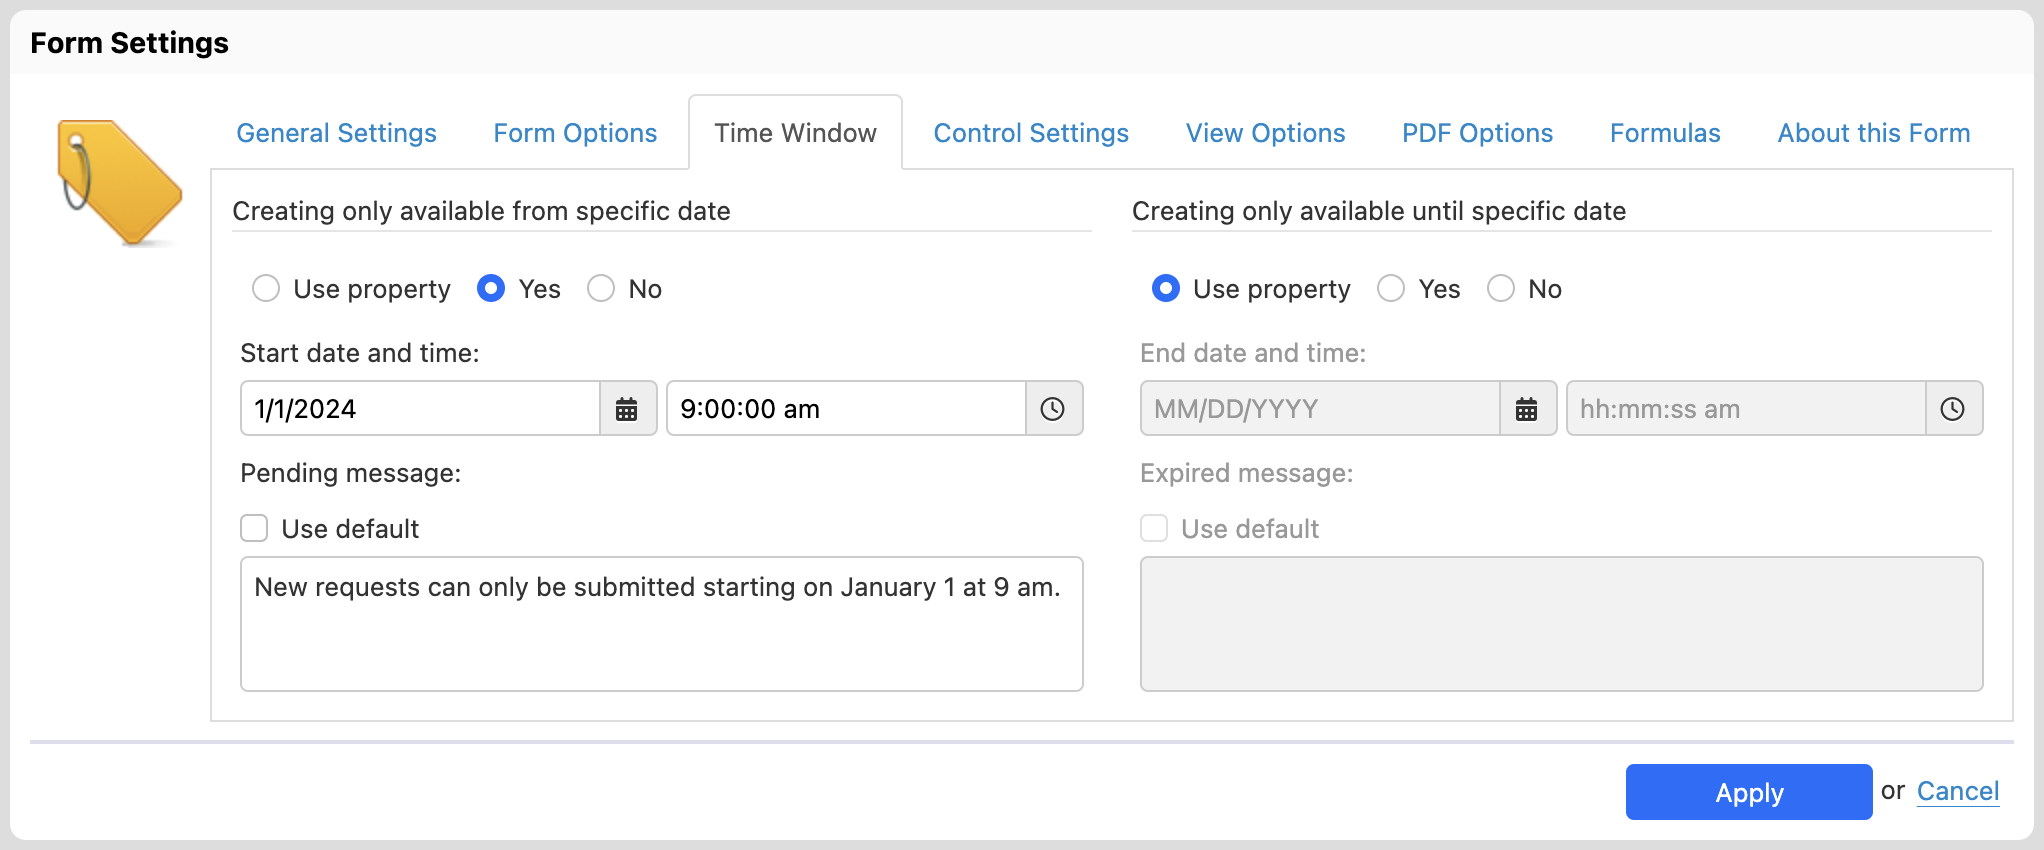
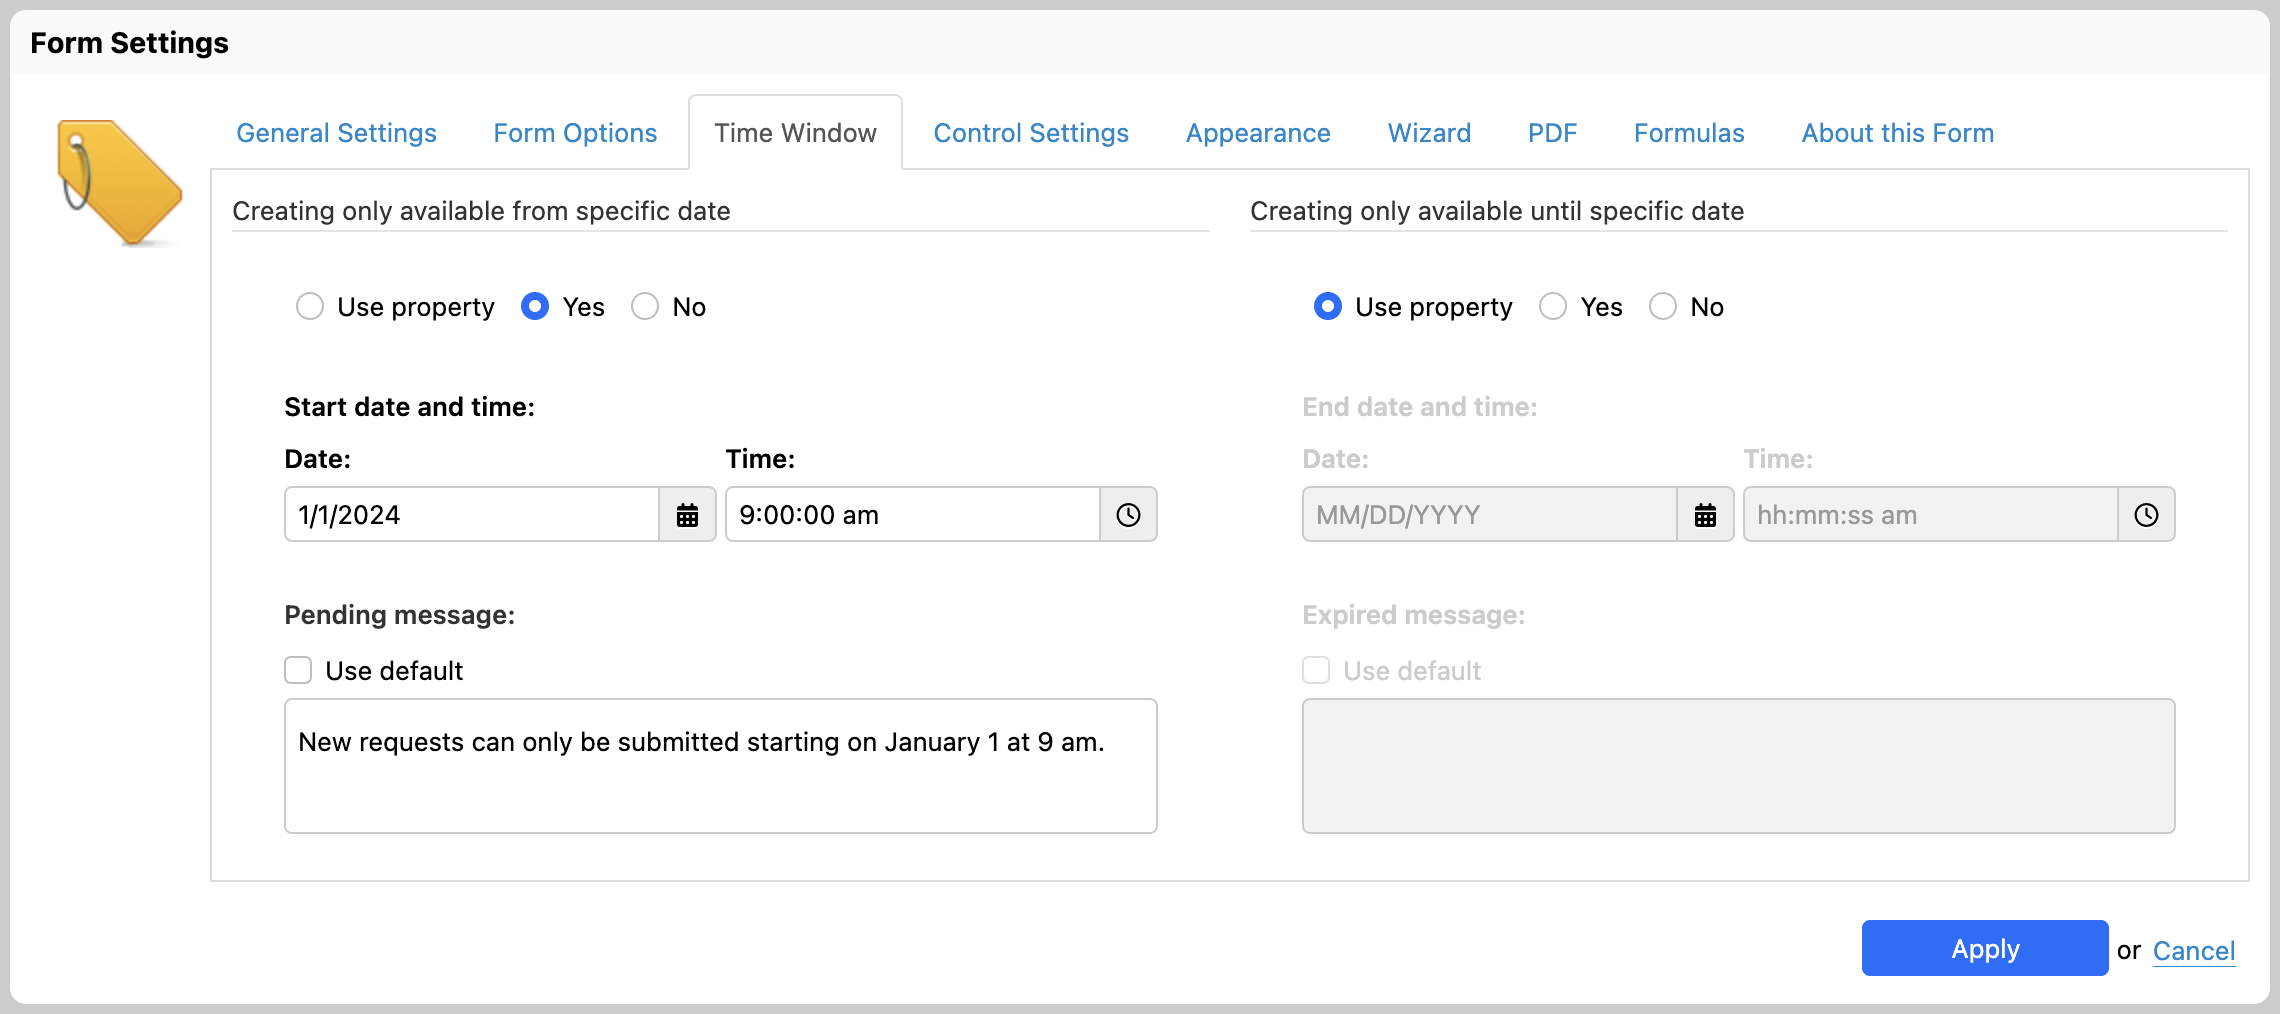
Density

diff --git a/form-builder/form-settings.md b/form-builder/form-settings.md
@@ -13,13 +13,13 @@ General settings allow you to set the following form definition metadata:
 - Form title in the current language
 - Form description in the current language
 
-![General Settings](images/form-settings-general.png)
+![General Settings](form-settings/general.png)
 
 [SINCE Orbeon Forms 2020.1]
 
 The description can optionally use rich text.
 
-![Form description with rich text](images/form-settings-general-html.png)
+![Form description with rich text](form-settings/general-html.png)
 
 ## Form Options
 
@@ -27,57 +27,46 @@ The description can optionally use rich text.
 
 Form options include options which apply to the entire form definition.
 
-![Form Options](images/form-settings-form-options.png)
+![Form Options](form-settings/form-options.png)
 
 - Singleton Form
-    - Enable or disable singleton form behavior. 
-    - See [Singleton Form](/form-runner/advanced/singleton-form.md)
-- Maximum Attachment Size per File
-    - [SINCE Orbeon Forms 2017.1]
-    - Use property: use the [`oxf.fr.detail.attachment.max-size-per-file` property](/configuration/properties/form-runner-attachments.md#maximum-attachment-size)
-    - Other: the maximum size allowed in bytes
-- Maximum Aggregate Attachment Size
-    - [SINCE Orbeon Forms 2017.1]
-    - Use property: use the [`oxf.fr.detail.attachment.max-size-aggregate-per-form` property](/configuration/properties/form-runner-attachments.md#maximum-aggregate-attachment-size-forms)
-    - Other: the maximum size allowed in bytes
-- Allowed File Types
-    - [SINCE Orbeon Forms 2017.1]
-    - Use property: use the [`oxf.fr.detail.attachment.mediatypes` property](/configuration/properties/form-runner-attachments.md#allowed-file-types)
-    - Other: a space-separated list of mediatypes or wildcard mediatypes
-- Appearance of Control Labels
-    - Use property: use the [`oxf.xforms.label.appearance` property](/xforms/controls/input.md#per-form-properties)
-    - Inline: labels show inline above the control
-- Use Placeholder for Text Fields and Text Areas
-    - Labels show inline above the control for most fields.
-    - For text, date, and time input fields, labels show as an HTML *placeholder* within the field when the field is empty.
-    - For text areas, labels show as an HTML *placeholder* within the field when the field is empty. [SINCE Orbeon Forms 2017.1]
-- Appearance of Control Hints
-    - Use property: use the `oxf.xforms.hint.appearance` property
-    - Inline: hints show inline below the control
-    - Tooltips: hints show as tooltips upon mouseover
-- Use automatic hints
-    - [\[SINCE Orbeon Forms 2023.1\]](/release-notes/orbeon-forms-2023.1.md)
-    - Use property: use the `oxf.fr.detail.hint.automatic.*.*` property
-    - Yes/No: show or don't show the automatic hints for all controls on this form
-    - For details, see [Automatic hints](control-settings.md#automatic-hints)
-- Use Placeholder for Text Fields and Text Areas
-    - Hints show inline or as tooltips upon mouseover.
-    - For text, date, and time input fields, hints show as an HTML *placeholder* within the field when the field is empty.
-    - For text areas, hints show as an HTML *placeholder* within the field when the field is empty. [SINCE Orbeon Forms 2017.1]
+  - Enable or disable singleton form behavior. 
+  - See [Singleton Form](/form-runner/advanced/singleton-form.md)
+- Allow use as form template
 - Simple Data Migration
-    - [SINCE Orbeon Forms 2018.2]
-    - For details, see [Simple data migration](/form-runner/feature/simple-data-migration.md).
-- Automatic Calculations Dependencies
-    - [SINCE Orbeon Forms 2018.1]
-    - For details, see [Automatic calculations dependencies](/form-runner/feature/automatic-calculations-dependencies.md).
+  - [SINCE Orbeon Forms 2018.2]
+  - For details, see [Simple data migration](/form-runner/feature/simple-data-migration.md).
 - Grid Tab Order
-    - [\[SINCE Orbeon Forms 2023.1\]](/release-notes/orbeon-forms-2023.1.md)
-    - Use property: use the [`oxf.xforms.xbl.fr.grid.tab-order` property](/configuration/properties/form-runner-detail-page.md#grid-tab-order)
-    - For details, see [Grid Tab Order](/form-builder/grid-settings.md#grid-tab-order) in the Grid Settings dialog.
+  - [\[SINCE Orbeon Forms 2023.1\]](/release-notes/orbeon-forms-2023.1.md)
+  - Use property: use the [`oxf.xforms.xbl.fr.grid.tab-order` property](/configuration/properties/form-runner-detail-page.md#grid-tab-order)
+  - For details, see [Grid Tab Order](/form-builder/grid-settings.md#grid-tab-order) in the Grid Settings dialog.
+- Maximum Attachment Size per File
+  - [SINCE Orbeon Forms 2017.1]
+  - Use property: use the [`oxf.fr.detail.attachment.max-size-per-file` property](/configuration/properties/form-runner-attachments.md#maximum-attachment-size)
+  - Other: the maximum size allowed in bytes
+- Maximum Aggregate Attachment Size
+  - [SINCE Orbeon Forms 2017.1]
+  - Use property: use the [`oxf.fr.detail.attachment.max-size-aggregate-per-form` property](/configuration/properties/form-runner-attachments.md#maximum-aggregate-attachment-size-forms)
+  - Other: the maximum size allowed in bytes
+- Allowed File Types
+  - [SINCE Orbeon Forms 2017.1]
+  - Use property: use the [`oxf.fr.detail.attachment.mediatypes` property](/configuration/properties/form-runner-attachments.md#allowed-file-types)
+  - Other: a space-separated list of mediatypes or wildcard mediatypes
+- Use Automatic Hints
+  - [\[SINCE Orbeon Forms 2023.1\]](/release-notes/orbeon-forms-2023.1.md)
+  - Use property: use the `oxf.fr.detail.hint.automatic.*.*` property
+  - Yes/No: show or don't show the automatic hints for all controls on this form
+  - For details, see [Automatic hints](control-settings.md#automatic-hints)
 
 Here is how hints appear depending on the type of control they are associated with:
 
 <img alt="" src="../form-runner/images/placeholder-and-inline-hints.png" width="932">
+
+## Time Window
+
+![Time Window](form-settings/time-window.png)
+
+See [Time Window](/form-builder/form-settings/time-window.md).
 
 ## Control Settings
 
@@ -87,28 +76,48 @@ This tab shows settings for specific controls. Those settings apply to all contr
 
 For example, you can set a "Digits After Decimal" setting global to the form, and then override it on specific number controls as needed. 
 
-![Number Control Settings](images/form-settings-controls-number.png) 
+![Number Control Settings](form-settings/controls-number.png) 
 
-![Date Control Settings](images/form-settings-controls-date.png)
+![Date Control Settings](form-settings/controls-date.png)
 
 See also the [blog post](https://blog.orbeon.com/2019/03/form-level-and-control-level-settings.html).
 
-## View Options
+## Appearance
 
 [SINCE Orbeon Forms 2018.1] These options are now in a separate tab.
 
-![View Options](images/form-settings-view-options.png)
+![Appearance](form-settings/appearance.png)
 
-### Browser page layout
-
-- [SINCE Orbeon Forms 2019.2]
-- Use property: use the [`oxf.fr.detail.html-page-layout` property](/configuration/properties/form-runner-detail-page.md#html-page-layout)
-- Fixed width: the form sections and grids take a fixed and predefined width of approximately 940px for large displays (the layout becomes responsive for smaller displays sizes).
-- Fluid width: the form sections and grids take the entire web browser's viewport size.
+- Browser page layout
+  - [SINCE Orbeon Forms 2019.2]
+  - Use property: use the [`oxf.fr.detail.html-page-layout` property](/configuration/properties/form-runner-detail-page.md#html-page-layout)
+  - Fixed width: the form sections and grids take a fixed and predefined width of approximately 940px for large displays (the layout becomes responsive for smaller displays sizes).
+  - Fluid width: the form sections and grids take the entire web browser's viewport size.
+- Density
+  - [SINCE Orbeon Forms 2024.1]
+  - Use property: use the [`oxf.fr.detail.density` property](/configuration/properties/form-runner-detail-page.md#density)
+  - Sets the spacing between elements in the interface, `Compact` being the most compact (default) and `Roomy` being the most spacious.
+- Appearance of Control Labels
+  - Use property: use the [`oxf.xforms.label.appearance` property](/xforms/controls/input.md#per-form-properties)
+  - Inline: labels show inline above the control
+- Use Placeholder for Text Fields and Text Areas
+  - Labels show inline above the control for most fields.
+  - For text, date, and time input fields, labels show as an HTML *placeholder* within the field when the field is empty.
+  - For text areas, labels show as an HTML *placeholder* within the field when the field is empty. [SINCE Orbeon Forms 2017.1]
+- Appearance of Control Hints
+  - Use property: use the `oxf.xforms.hint.appearance` property
+  - Inline: hints show inline below the control
+  - Tooltips: hints show as tooltips upon mouseover
+- Use Placeholder for Text Fields and Text Areas
+  - Hints show inline or as tooltips upon mouseover.
+  - For text, date, and time input fields, hints show as an HTML *placeholder* within the field when the field is empty.
+  - For text areas, hints show as an HTML *placeholder* within the field when the field is empty. [SINCE Orbeon Forms 2017.1]
 
 See also the [blog post](https://blog.orbeon.com/2019/11/new-layout-choices-for-pdf-and-browser.html).
 
-### Wizard options
+## Wizard
+
+![Wizard](form-settings/wizard.png)
 
 For details, see [Wizard View](/form-runner/feature/wizard-view.md).
  
@@ -127,12 +136,16 @@ For details, see [Wizard View](/form-runner/feature/wizard-view.md).
     - Form Builder setting [SINCE Orbeon Forms 2018.1]
     - Use property: use the [`oxf.xforms.xbl.fr.wizard.subsections-toc` property](/form-runner/feature/wizard-view.md#visibility-in-the-table-of-contents)
     - "Show subsections for the active section only", "Show subsections for all sections", "Don't show subsections": use the given setting for this form definition, no matter how the property is configured.
+- Wizard Separate Table of Contents
+- Always Show Wizard Section Status
 
-## PDF Options
+See also the [blog post](https://blog.orbeon.com/2019/11/new-layout-choices-for-pdf-and-browser.html).
+
+## PDF
 
 [SINCE Orbeon Forms 2019.2]
 
-![PDF Options](images/form-settings-pdf-options.png)
+![PDF](form-settings/pdf.png)
 
 - PDF page orientation
     - Use property: use the [`oxf.fr.detail.rendered-page-orientation` property](/configuration/properties/form-runner-pdf.md#automatic-pdf-page-size-and-orientation)
@@ -148,26 +161,27 @@ See also the [blog post](https://blog.orbeon.com/2019/11/new-layout-choices-for-
 
 ## Formulas
 
+![Formulas](form-settings/formulas.png)
 
-
-![Readonly formula](images/form-settings-formulas.png)
-
-- **Read-Only:** Boolean expression specifying whether the entire form is read-only (not editable).
-    - [SINCE Orbeon Forms 2020.1]
-    - If this field is left blank, then the form is editable.
-    - Otherwise, it is editable only if the result of the Boolean expression is `false()`.
-
-- **Calculations in readonly modes (Review, PDF)**:
-    - [SINCE Orbeon Forms 2021.1]
-    - Use property: use the [`oxf.fr.detail.readonly.disable-calculate` property](/configuration/properties/form-runner-detail-page.md#calculations-in-readonly-modes)
-        - the property defaults to `false`, which means that Calculated Value formulas run in readonly modes
-    - Enable: Calculated Value formulas run in readonly modes.
-    - Disable: Calculated Value formulas do not run in readonly modes.
-    - Sometimes calculations should not run in readonly modes, such as the View page. This can now be configured at the form level.
+- Calculations in Read-Only Modes (Review, PDF)
+  - [SINCE Orbeon Forms 2021.1]
+  - Use property: use the [`oxf.fr.detail.readonly.disable-calculate` property](/configuration/properties/form-runner-detail-page.md#calculations-in-readonly-modes)
+    - the property defaults to `false`, which means that Calculated Value formulas run in readonly modes
+  - Enable: Calculated Value formulas run in readonly modes.
+  - Disable: Calculated Value formulas do not run in readonly modes.
+  - Sometimes calculations should not run in readonly modes, such as the View page. This can now be configured at the form level.
+- Read-Only
+  - [SINCE Orbeon Forms 2020.1]
+  - Boolean expression specifying whether the entire form is read-only (not editable).
+  - If this field is left blank, then the form is editable.
+  - Otherwise, it is editable only if the result of the Boolean expression is `false()`.
+- Automatic Calculations Dependencies
+  - [SINCE Orbeon Forms 2018.1]
+  - For details, see [Automatic calculations dependencies](/form-runner/feature/automatic-calculations-dependencies.md).
 
 ## About this Form
 
-![About this Form](images/form-settings-about.png)
+![About this Form](form-settings/about.png)
 
 ### Versions
 

diff --git a/form-runner/feature/automatic-calculations-dependencies.md b/form-runner/feature/automatic-calculations-dependencies.md
@@ -21,7 +21,7 @@ In addition, for *new form definitions*, the "Automatic Calculations Dependencie
 
 _NOTE: Existing form definitions which do not have the `xxf:analysis.calculate="true"` attribute set in the form definition source are not automatically upgraded to enable automatic calculations dependencies. You must enable dependencies explicitly in the "Form Settings" dialog._
 
-![Form Options](../../form-builder/images/form-settings-formulas.png)
+![Form Options](../../form-builder/form-settings/formulas.png)
 
 _NOTE: Prior to Orbeon Forms 2022.1.1, this setting was under the "Form Settings" dialog's "Form Options" tab._
 

diff --git a/form-builder/form-editor.md b/form-builder/form-editor.md
@@ -8,7 +8,7 @@ After pressing the "New" button on the [summary page](../form-builder/summary-pa
 _NOTE: Depending on your permissions, the application name might have been picked for you already, or you might have the choice of a restricted set of application names._
 * **Form Name.** Each form definition also has a _form name_, which identifies a unique form name within a particular application.
 
-![Form Settings for a New Form Definition](images/form-settings-new.png)
+![Form Settings for a New Form Definition](form-settings/new.png)
 
 Both application name and form name must respect a certain format:
 

diff --git a/configuration/properties/form-runner-detail-page.md b/configuration/properties/form-runner-detail-page.md
@@ -27,6 +27,27 @@ This can also be configured for a particular form in Form Builder's Form Setting
     value="fixed"/>
 ```
 
+## Density
+
+[SINCE Orbeon Forms 2024.1]
+
+Available values:
+
+- `compact` (default)
+- `comfortable`
+- `roomy`
+
+This sets the spacing between elements in the interface.
+
+This can also be configured for a particular form in Form Builder's Form Settings dialog.
+
+```xml
+<property
+    as="xs:string"
+    name="oxf.fr.detail.density.*.*"
+    value="compact"/>
+```
+
 ## Adding your own CSS files
 
 [SINCE Orbeon Forms 2017.1]

diff --git a/form-runner/advanced/singleton-form.md b/form-runner/advanced/singleton-form.md
@@ -8,7 +8,7 @@ Most forms are filled out for a given purpose, and then submitted. When the init
 
 As a form author, you can mark a form as *singleton* in Form Builder by opening the *Form Settings* dialog, and clicking on the *Singleton form* checkbox.
 
-![Form Options](../../form-builder/images/form-settings-form-options.png)
+![Form Options](../../form-builder/form-settings/form-options.png)
 
 ## In Form Runner
 

diff --git a/release-notes/orbeon-forms-2021.1.md b/release-notes/orbeon-forms-2021.1.md
@@ -212,7 +212,7 @@ For more, see:
 - [Form Settings](/form-builder/form-settings.md#formulas)
 - the [`oxf.fr.detail.readonly.disable-calculate` property](/configuration/properties/form-runner-detail-page.md#calculations-in-readonly-modes)
 
-![Formula options](/form-builder/images/form-settings-formulas.png)
+![Formula options](/form-builder/form-settings/formulas.png)
 
 ### XForms 2.0 support
 

diff --git a/release-notes/orbeon-forms-2020.1.md b/release-notes/orbeon-forms-2020.1.md
@@ -63,7 +63,7 @@ This is in addition to the [existing feature](/form-builder/formulas.md#renaming
 
 The form description now supports rich text.
 
-![Form description with rich text](/form-builder/images/form-settings-general-html.png)
+![Form description with rich text](/form-builder/form-settings/general-html.png)
 
 See the [documentation](/form-builder/form-settings.md) for details.
 

diff --git a/form-runner/feature/simple-data-migration.md b/form-runner/feature/simple-data-migration.md
@@ -42,7 +42,7 @@ The possible tokens are:
 - __Disabled:__ `disabled`
 - __Raise an error:__ `error`
 
-![Form Options](../../form-builder/images/form-settings-form-options.png)
+![Form Options](../../form-builder/form-settings/form-options.png)
 
 ## Moving controls
 
